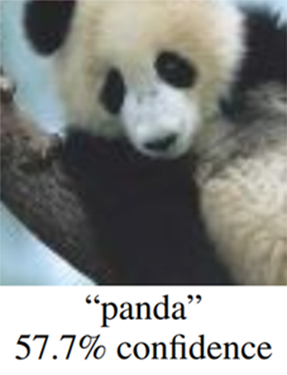
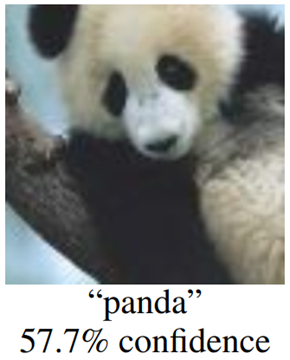
docs: images lightbox effect + higher res + fix lowest doc deps [skip ci]

diff --git a/docs/src/conf.py b/docs/src/conf.py
@@ -51,6 +51,7 @@ extensions = [
     "sphinxcontrib.katex",
     "myst_parser",
     "sphinx_design",
+    "sphinxcontrib.images",
 ]
 
 templates_path = ["_templates"]
@@ -309,6 +310,13 @@ sphinx_gallery_conf = {
     "gallery_dirs": ["auto_tutorials"],
     "filename_pattern": "",
     "within_subsection_order": ExplicitOrder(tutorials_order),
+}
+
+# -- Options for "sphinxcontrib.images" --------------------------------------
+images_config = {
+    "override_image_directive": True,
+    "download": False,
+    "cache_path": ".cache",
 }
 
 # -- Callbacks for sphinx events (custom rendering) --------------------------

diff --git a/docs/src/user_guide/confidence_scores.rst b/docs/src/user_guide/confidence_scores.rst
@@ -9,12 +9,14 @@ In the context of Machine Learning, confidence scores are real numbers paired wi
 |panda| |traffic|
 
 .. |panda| image:: /_static/panda.png
-   :width: 21.86%
    :alt: panda
+   :title: Image classification with softmax as confidence
+   :width: 22.76%
 
 .. |traffic| image:: /_static/traffic.png
-   :width: 76.64%
    :alt: trtraffic
+   :title: Object detections with objectness as confidence
+   :width: 75.74%
 
 Both examples above use scores between :math:`0` and :math:`1` *by design* (computed via the softmax function), but in general they can be **any real number** (or even :math:`\pm\infty`).
 

diff --git a/docs/src/user_guide/paradigm.rst b/docs/src/user_guide/paradigm.rst
@@ -20,5 +20,6 @@ The rules above ultimately force any compatible approach to leverage the knowled
 
 .. image:: /_static/paradigm.png
    :alt: paradigm
+   :title: Paradigm for the design of confidence score functions in scio
 
 Of course, not all methods implemented in ``scio`` use every components of this diagram. In general, think of the *complementary samples* (optional) as slight modifications of calibration samples: compressed, noised, adversarially transformed, etc... Finally, note that methods may also use gradient-based information with respect to inputs or model weights, undepicted here.

diff --git a/docs/src/user_guide/ood_detection.rst b/docs/src/user_guide/ood_detection.rst
@@ -16,6 +16,7 @@ Ultimately, the choice of threshold is a trade-off between False Positives and T
 
 .. image:: /_static/histograms.svg
    :alt: histograms illustration
+   :title: Illustration of two different score distributions: right offers better FPR/TPR trade-offs
    :align: center
    :width: 100%
 
